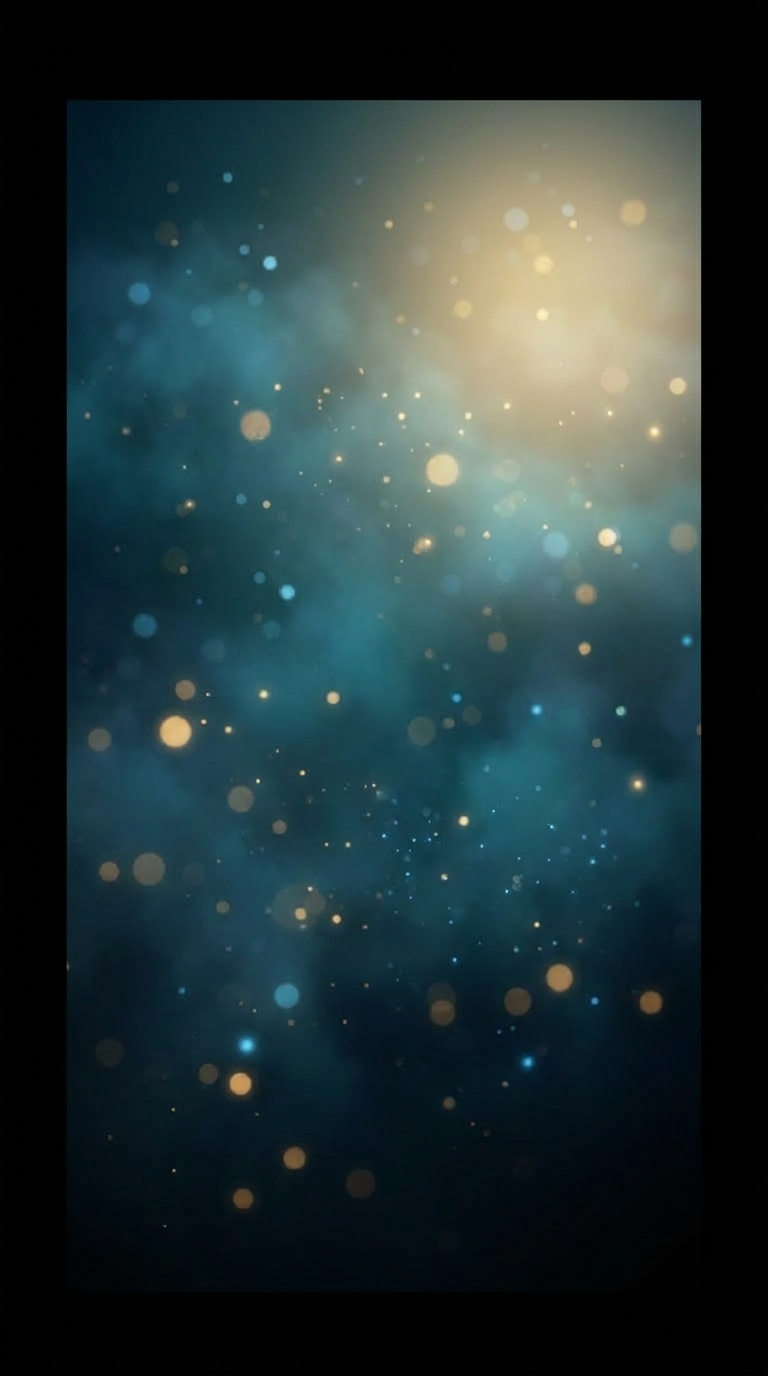
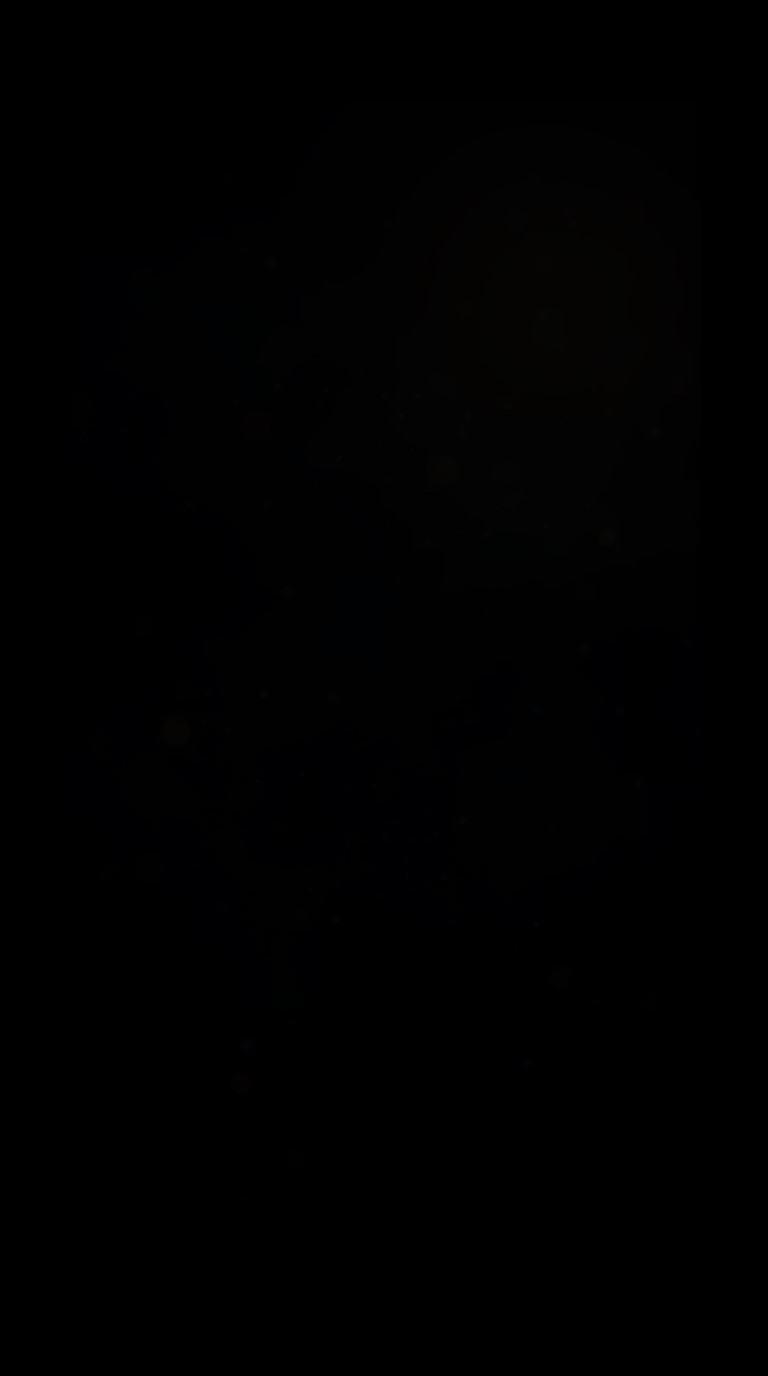
Refactor parallax background, rename UserProfile
Adjust ParallaxBackground: reorganize imports, add bottom-layer sizing and clamped transforms, expose new ParallaxLayer props (isBottomLayer, baseScale, baseTranslateY), change layer movement factors, raise content zIndex, and tweak styles. Update DeviceMotion listener setup and reorder children so UI sits between layers. Rename UserProfile imports/stylesheet to match changed filename casing and update profile route import. Replace/refresh three image assets and update prompt.md to reflect the layer changes.

diff --git a/src/components/parallaxBackground/ParallaxBackground.tsx b/src/components/parallaxBackground/ParallaxBackground.tsx
@@ -1,49 +1,74 @@
-import React, { useEffect, useState } from 'react';
-import { View, StyleSheet, Dimensions, Image, Platform } from 'react-native';
 import { DeviceMotion, DeviceMotionMeasurement } from 'expo-sensors';
+import React, { useEffect } from 'react';
+import { Dimensions, Image, Platform, StyleSheet, View } from 'react-native';
 import Animated, {
-  useSharedValue,
-  useAnimatedStyle,
-  withSpring,
   SharedValue,
+  useAnimatedStyle,
+  useSharedValue,
+  withSpring,
 } from 'react-native-reanimated';
 
 const { width: W, height: H } = Dimensions.get('window');
 const MAX_OFFSET = 35;
+const BOTTOM_LAYER_WIDTH = (W + MAX_OFFSET * 2) * 2.5; 
+const BOTTOM_LAYER_HEIGHT = BOTTOM_LAYER_WIDTH * (9 / 16);
 
 const LAYERS = [
   { source: require('../../../assets/images/layer1.jpeg'), factor: 0.06 },
-  { source: require('../../../assets/images/layer2.png'), factor: 0.18 },
-  { source: require('../../../assets/images/layer3.png'), factor: 0.55 },
+  { source: require('../../../assets/images/layer2.png'), factor: 0.5 }, // Aumentado para acercarla
+  { source: require('../../../assets/images/layer3.png'), factor: 1.5 },
 ];
 
 interface ParallaxLayerProps {
   source: any;
   factor: number;
   rotation: { x: SharedValue<number>; y: SharedValue<number> };
+  isBottomLayer?: boolean;
+  baseScale?: number;
+  baseTranslateY?: number;
 }
 
-const ParallaxLayer = ({ source, factor, rotation }: ParallaxLayerProps) => {
+const ParallaxLayer = ({ 
+  source, 
+  factor, 
+  rotation, 
+  isBottomLayer, 
+  baseScale = 1,
+  baseTranslateY = 0 
+}: ParallaxLayerProps) => {
   const animatedStyle = useAnimatedStyle(() => {
+    let tx = rotation.x.value * MAX_OFFSET * factor * 0.5;
+    let ty = rotation.y.value * MAX_OFFSET * factor * 0.5;
+
+    if (isBottomLayer) {
+      tx = Math.max(Math.min(tx, 50), -150);
+      ty = Math.max(Math.min(ty, 30), -30);
+    }
+
     return {
       transform: [
-        { translateX: rotation.x.value * MAX_OFFSET * factor * 3.5 },
-        { translateY: rotation.y.value * MAX_OFFSET * factor * 3.5 },
+        { translateX: tx },
+        { translateY: ty + baseTranslateY },
+        { scale: baseScale },
       ],
     };
   });
 
   return (
-    <Animated.View style={[styles.layer, animatedStyle]}>
-      <Image source={source} style={styles.image} resizeMode="cover" />
+    <Animated.View style={[isBottomLayer ? styles.layerBottom : styles.layer, animatedStyle]}>
+      <Image
+        source={source}
+        style={styles.image}
+        resizeMode="cover"
+      />
     </Animated.View>
   );
 };
 
-export default function ParallaxBackground({ 
-  children, 
-  foregroundChildren 
-}: { 
+export default function ParallaxBackground({
+  children,
+  foregroundChildren
+}: {
   children: React.ReactNode;
   foregroundChildren?: React.ReactNode;
 }) {
@@ -65,7 +90,7 @@ export default function ParallaxBackground({
 
         DeviceMotion.setUpdateInterval(16);
         DeviceMotion.removeAllListeners();
-        
+
         subscription = DeviceMotion.addListener((data: DeviceMotionMeasurement) => {
           if (data.rotation) {
             const { beta, gamma } = data.rotation;
@@ -96,21 +121,24 @@ export default function ParallaxBackground({
         rotation={{ x: rotationX, y: rotationY }}
       />
 
-      {/* CONTENIDO INTERMEDIO (Detrás de siluetas y hojas) */}
-      <View style={styles.content}>{children}</View>
-
-      {/* Layer 2: Siluetas de plantas */}
+      {/* Layer 2: Siluetas (Plano intermedio) */}
       <ParallaxLayer
         source={LAYERS[1].source}
         factor={LAYERS[1].factor}
         rotation={{ x: rotationX, y: rotationY }}
+        baseScale={1.0}
+        baseTranslateY={0}
       />
+
+      {/* CONTENIDO INTERMEDIO (UI) */}
+      <View style={styles.content}>{children}</View>
 
       {/* Layer 3: Hojas primer plano */}
       <ParallaxLayer
         source={LAYERS[2].source}
         factor={LAYERS[2].factor}
         rotation={{ x: rotationX, y: rotationY }}
+        isBottomLayer
       />
 
       {/* CONTENIDO SUPERIOR (Encima de todo) */}
@@ -132,12 +160,20 @@ const styles = StyleSheet.create({
     width: W + MAX_OFFSET * 2,
     height: H + MAX_OFFSET * 2,
   },
+  layerBottom: {
+    position: 'absolute',
+    bottom: -MAX_OFFSET,
+    left: -W * 0.99,
+    width: BOTTOM_LAYER_WIDTH,
+    height: BOTTOM_LAYER_HEIGHT,
+    zIndex: 20,
+  },
   image: {
     width: '100%',
     height: '100%',
   },
   content: {
     ...StyleSheet.absoluteFillObject,
-    zIndex: 10,
+    zIndex: 50, 
   },
 });

diff --git a/src/screens/userProfile/userProfile.tsx b/src/screens/userProfile/userProfile.tsx
@@ -23,7 +23,7 @@ import Toast, { ToastType } from "../../components/ui/toast/Toast";
 import { getUserById, updateUser } from "../../services/userService";
 import { useTheme } from "../../theme/desingSystem";
 import { PrivacidadPerfil, UserInterface } from "../../types-dtos/user.types";
-import { createStyles } from "./userProfile.styles";
+import { createStyles } from "./UserProfile.styles";
 import { useAuth } from "../../context/AuthContext";
 import { logOut } from "../../services/authService";
 

diff --git a/app/(app)/(tabs)/profile.tsx b/app/(app)/(tabs)/profile.tsx
@@ -1,4 +1,4 @@
-import UserProfile from "@/src/screens/userProfile/userProfile";
+import UserProfile from "@/src/screens/userProfile/UserProfile";
 
 export default function ProfileRoute() {
   return <UserProfile />;

diff --git a/prompt.md b/prompt.md
@@ -8,14 +8,13 @@
 ## Assets
 Ya están en `assets/images/`:
 - `layer1.jpeg` — cielo nocturno, fondo opaco (base)
-- `layer2.png` — siluetas de plantas, PNG con alpha transparente
 - `layer3.png` — hojas primer plano, PNG con alpha transparente
 
 ---
 
 ## Archivo 1: `components/ParallaxBackground.tsx`
 
-- 3 imágenes apiladas en `position: absolute`, sin `mixBlendMode`
+- 2 imágenes apiladas en `position: absolute`, sin `mixBlendMode`
 - Giroscopio con `DeviceMotion` de `expo-sensors`
 - Cada capa se mueve a distinta velocidad con `useSharedValue` + `useAnimatedStyle` + `withSpring`
 - `ParallaxLayer` como componente separado (Rules of Hooks)
@@ -30,7 +29,6 @@ Ya están en `assets/images/`:
 ```ts
 const LAYERS = [
   { source: require('../assets/images/layer1.jpeg'), factor: 0.06 },
-  { source: require('../assets/images/layer2.png'),  factor: 0.18 },
   { source: require('../assets/images/layer3.png'),  factor: 0.55 },
 ];
 
